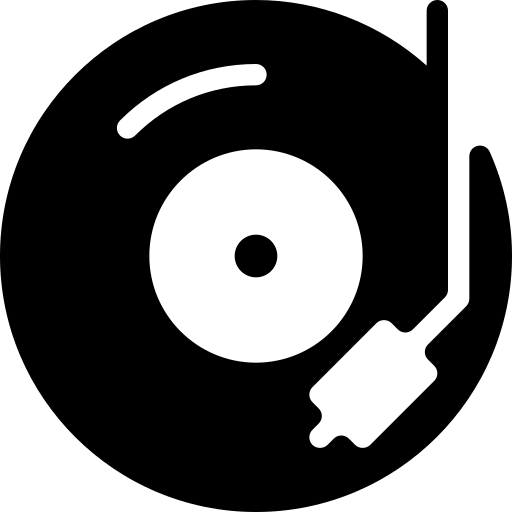
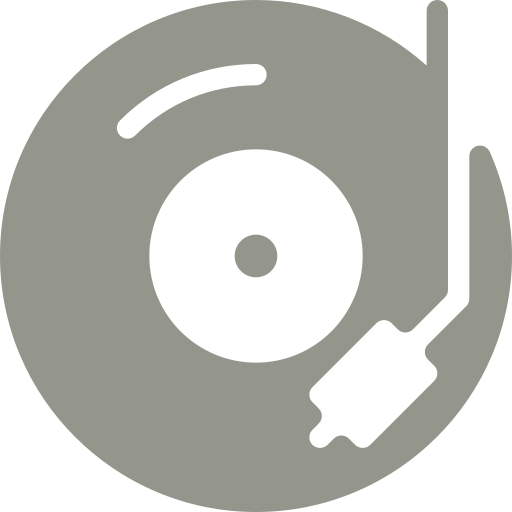
Feature: Update images

diff --git a/src/components/RecordDetailPage.vue b/src/components/RecordDetailPage.vue
@@ -4,9 +4,6 @@
     <div class="container">
       <div class="detail-content">
         <div class="record-viewer">
-          <h2>{{ record.title }}</h2>
-          <p v-if="record.description" class="record-description">{{ record.description }}</p>
-          
           <!-- 이미지 그리드 -->
           <div class="image-grid">
             <div 
@@ -27,48 +24,48 @@
       <button class="close-btn" @click="closeImage">&times;</button>
       
       <div class="modal-content" @click.stop>
-        <!-- 이전 버튼 -->
-        <button 
-          v-if="record.images && record.images.length > 1"
-          class="nav-arrow prev-arrow"
-          @click.stop="previousImage"
-        >
-          ◀
-        </button>
-        
         <!-- 이미지 표시 -->
-        <img 
+        <img
           :src="record.images[selectedImageIndex]"
           :alt="`${record.title} - ${selectedImageIndex + 1}`"
           class="modal-image"
         />
-        
-        <!-- 다음 버튼 -->
-        <button 
-          v-if="record.images && record.images.length > 1"
-          class="nav-arrow next-arrow"
-          @click.stop="nextImage"
-        >
-          ▶
-        </button>
-
-        <!-- 모바일 세로 모드용 위/아래 버튼 -->
-        <button 
-          v-if="record.images && record.images.length > 1"
-          class="nav-arrow mobile-prev-arrow"
-          @click.stop="previousImage"
-        >
-          ▲
-        </button>
-        
-        <button 
-          v-if="record.images && record.images.length > 1"
-          class="nav-arrow mobile-next-arrow"
-          @click.stop="nextImage"
-        >
-          ▼
-        </button>
       </div>
+
+      <!-- 이전 버튼 -->
+      <button
+        v-if="record.images && record.images.length > 1"
+        class="nav-arrow prev-arrow"
+        @click.stop="previousImage"
+      >
+        ◀
+      </button>
+
+      <!-- 다음 버튼 -->
+      <button
+        v-if="record.images && record.images.length > 1"
+        class="nav-arrow next-arrow"
+        @click.stop="nextImage"
+      >
+        ▶
+      </button>
+
+      <!-- 모바일 세로 모드용 위/아래 버튼 -->
+      <button
+        v-if="record.images && record.images.length > 1"
+        class="nav-arrow mobile-prev-arrow"
+        @click.stop="previousImage"
+      >
+        ▲
+      </button>
+
+      <button
+        v-if="record.images && record.images.length > 1"
+        class="nav-arrow mobile-next-arrow"
+        @click.stop="nextImage"
+      >
+        ▼
+      </button>
       
       <!-- 이미지 카운터 -->
       <div v-if="record.images && record.images.length > 1" class="image-counter">
@@ -134,17 +131,6 @@ const nextImage = () => {
   text-align: center;
 }
 
-.record-viewer h2 {
-  font-size: 2.5vw;
-  margin-bottom: 1vw;
-  color: #fdfdfc;
-}
-
-.record-description {
-  font-size: 1vw;
-  color: #bdb7a0;
-  margin-bottom: 2vw;
-}
 
 /* 이미지 그리드 */
 .image-grid {
@@ -237,7 +223,7 @@ const nextImage = () => {
 
 /* 네비게이션 화살표 */
 .nav-arrow {
-  position: absolute;
+  position: fixed;
   top: 50%;
   transform: translateY(-50%);
   background: rgba(0, 0, 0, 0.5);
@@ -252,14 +238,15 @@ const nextImage = () => {
   display: flex;
   align-items: center;
   justify-content: center;
+  z-index: 2001;
 }
 
 .prev-arrow {
-  left: 1vw;
+  left: 2vw;
 }
 
 .next-arrow {
-  right: 1vw;
+  right: 2vw;
 }
 
 .mobile-prev-arrow,